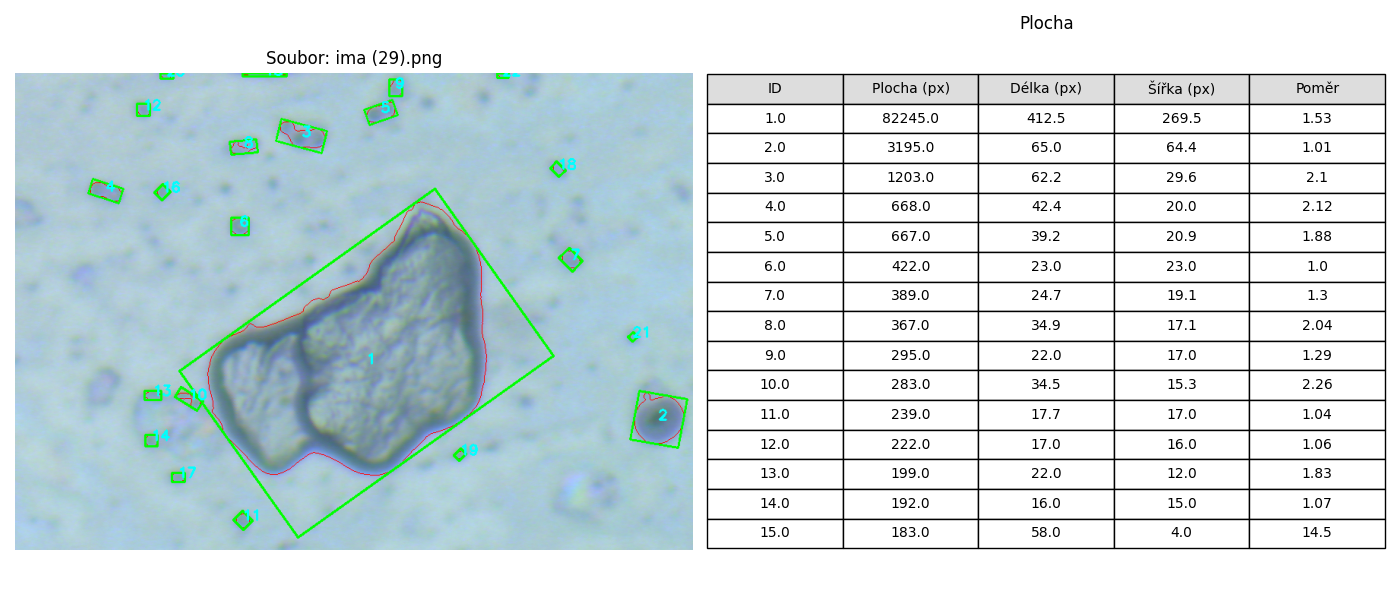
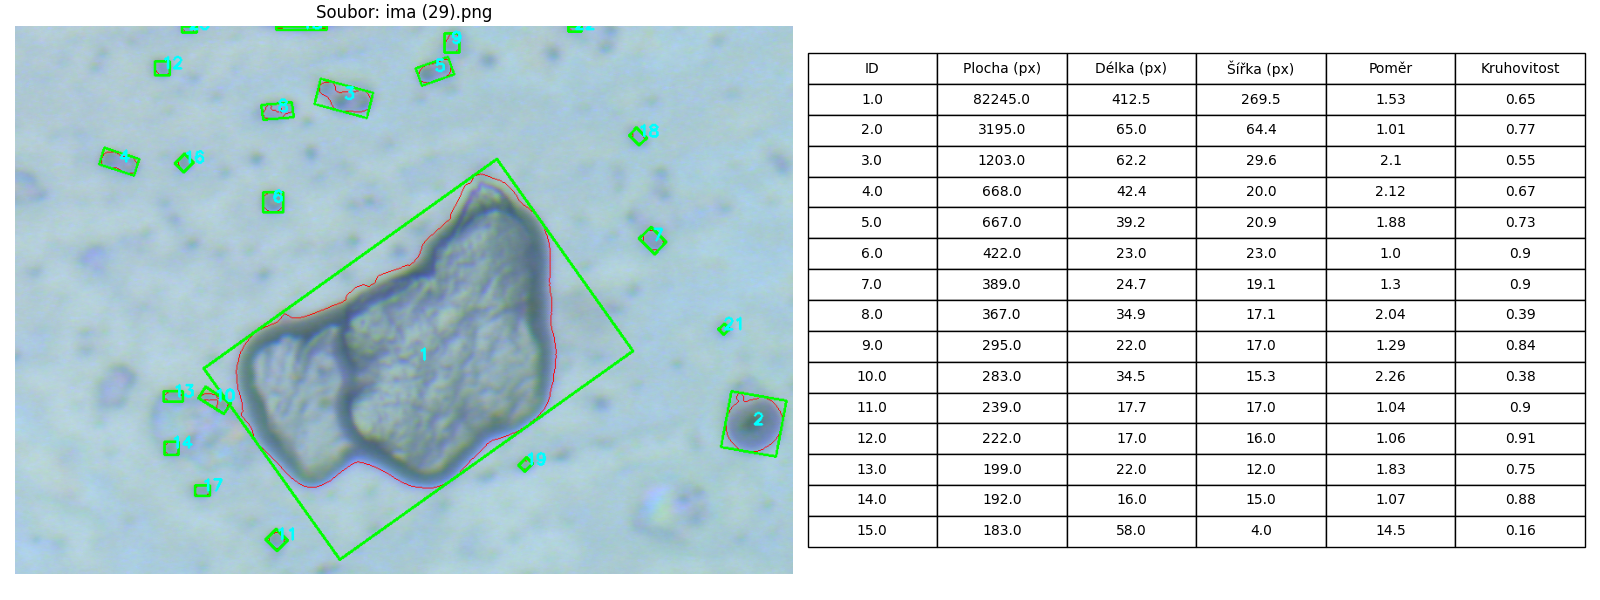
Initial Commit

diff --git a/Testy na realnych snimcich/Ferografie/Reseni.py b/Testy na realnych snimcich/Ferografie/Reseni.py
@@ -4,70 +4,60 @@ import pandas as pd
 import matplotlib.pyplot as plt
 import os
 import glob
+from typing import Dict, Optional, Any
 
 INPUT_FOLDER = '.'
 OUTPUT_FOLDER = 'vysledky'
 
-
-def get_mask(img):
+def get_mask(img: np.ndarray, canny_t1: int = 10, canny_t2: int = 100) -> np.ndarray:
 
     gray = cv2.cvtColor(img, cv2.COLOR_BGR2GRAY)
     blurred = cv2.GaussianBlur(gray, (5, 5), 0)
 
-    # Detekci hran Canny s nízkým prahem
-    canny = cv2.Canny(blurred, 10, 100)
+    # Detekce hran s parametry
+    canny = cv2.Canny(blurred, canny_t1, canny_t2)
 
-    # Dilatace (roztažení)
     kernel_connect = cv2.getStructuringElement(cv2.MORPH_ELLIPSE, (9, 9))
     canny_connected = cv2.dilate(canny, kernel_connect, iterations=2)
 
-    # Vyplnění děr uvnitř uzavřených tvarů
     contours_c, _ = cv2.findContours(canny_connected, cv2.RETR_EXTERNAL, cv2.CHAIN_APPROX_SIMPLE)
     mask_metal = np.zeros_like(gray)
     cv2.drawContours(mask_metal, contours_c, -1, 255, thickness=cv2.FILLED)
 
-    # Adaptivní threshold (Otsu)
     _, mask_dark = cv2.threshold(blurred, 0, 255, cv2.THRESH_BINARY_INV + cv2.THRESH_OTSU)
-
-    # Sloučení masek
     combined = cv2.bitwise_or(mask_metal, mask_dark)
 
-    # Finální začištění
     kernel_clean = cv2.getStructuringElement(cv2.MORPH_ELLIPSE, (3, 3))
-    final_mask = cv2.morphologyEx(combined, cv2.MORPH_OPEN, kernel_clean, iterations=2)
+    return cv2.morphologyEx(combined, cv2.MORPH_OPEN, kernel_clean, iterations=2)
 
-    return final_mask
+def analyze_shape(contour: np.ndarray, min_area: float = 50.0) -> Optional[Dict[str, Any]]:
 
-
-def analyze_exact_shape(contour):
-
-    # Určení plochy
     exact_area = cv2.contourArea(contour)
-
-    if exact_area < 50: return None
+    if exact_area < min_area:
+        return None
 
     # Rozměry částic
     rect = cv2.minAreaRect(contour)
     (center, (w, h), angle) = rect
-
-    length = max(w, h)
-    width = min(w, h)
+    length, width = max(w, h), min(w, h)
     aspect_ratio = length / width if width > 0 else 0
+
+    # Výpočet kruhovitosti
+    perimeter = cv2.arcLength(contour, True)
+    circularity = (4 * np.pi * exact_area) / (perimeter ** 2) if perimeter > 0 else 0
 
     return {
         "area": exact_area,
         "length": length,
         "width": width,
         "ar": aspect_ratio,
+        "circularity": circularity,
         "rect": rect,
         "center": center
     }
 
-
-def process_batch_exact_fix(input_folder, output_folder):
-    if not os.path.exists(output_folder):
-        os.makedirs(output_folder)
-
+def process_batch_exact_fix(input_folder: str, output_folder: str):
+    os.makedirs(output_folder, exist_ok=True)
     files = glob.glob(os.path.join(input_folder, "*.png")) + glob.glob(os.path.join(input_folder, "*.jpg"))
     print(f"Zpracovávám {len(files)} souborů...")
 
@@ -78,48 +68,36 @@ def process_batch_exact_fix(input_folder, output_folder):
 
         mask = get_mask(img)
         contours, _ = cv2.findContours(mask, cv2.RETR_EXTERNAL, cv2.CHAIN_APPROX_SIMPLE)
+        contours = sorted(contours, key=cv2.contourArea, reverse=True)
 
         annotated_img = img.copy()
         data_list = []
 
-        # Seřazení kontur
-        contours = sorted(contours, key=cv2.contourArea, reverse=True)
-
         for i, cnt in enumerate(contours):
-            stats = analyze_exact_shape(cnt)
-            if stats is None: continue
+            stats = analyze_shape(cnt)
+            if not stats: continue
 
             data_list.append({
                 "ID": i + 1,
                 "Plocha (px)": int(stats["area"]),
                 "Délka (px)": round(stats["length"], 1),
                 "Šířka (px)": round(stats["width"], 1),
-                "Poměr": round(stats["ar"], 2)
+                "Poměr": round(stats["ar"], 2),
+                "Kruhovitost": round(stats["circularity"], 2)
             })
 
-            # Vykreslení
-            # Tvar částice >> plocha částice
             cv2.drawContours(annotated_img, [cnt], -1, (0, 0, 255), 1)
-
-            # Opsaný obdélník >> rozměry částice
-            box = cv2.boxPoints(stats["rect"])
-            box = np.int64(box)
-
+            box = np.int64(cv2.boxPoints(stats["rect"]))
             cv2.drawContours(annotated_img, [box], 0, (0, 255, 0), 2)
-
-            cx, cy = stats["center"]
-            cv2.putText(annotated_img, str(i + 1), (int(cx), int(cy)),
+            cv2.putText(annotated_img, str(i + 1), (int(stats["center"][0]), int(stats["center"][1])),
                         cv2.FONT_HERSHEY_SIMPLEX, 0.6, (255, 255, 0), 2)
 
-        # Export texťáku
-        fig, ax = plt.subplots(1, 2, figsize=(14, 6))
-
+        # Vizualizace a uložení (ponecháno téměř stejné, jen přidán parametr kruhovitost do tabulky)
+        fig, ax = plt.subplots(1, 2, figsize=(16, 6))
         ax[0].imshow(cv2.cvtColor(annotated_img, cv2.COLOR_BGR2RGB))
         ax[0].set_title(f"Soubor: {filename}")
         ax[0].axis('off')
-
         ax[1].axis('off')
-        ax[1].set_title("Plocha")
 
         if data_list:
             df = pd.DataFrame(data_list)
@@ -128,8 +106,6 @@ def process_batch_exact_fix(input_folder, output_folder):
             table.auto_set_font_size(False)
             table.set_fontsize(10)
             table.scale(1, 1.5)
-            for (r, c), cell in table.get_celld().items():
-                if r == 0: cell.set_facecolor('#dddddd')
         else:
             ax[1].text(0.5, 0.5, "Žádné částice", ha='center')
 
@@ -139,7 +115,5 @@ def process_batch_exact_fix(input_folder, output_folder):
         plt.close(fig)
         print(f"Uloženo: {out_file}")
 
-
-# Spuštění
 if __name__ == "__main__":
     process_batch_exact_fix(INPUT_FOLDER, OUTPUT_FOLDER)
